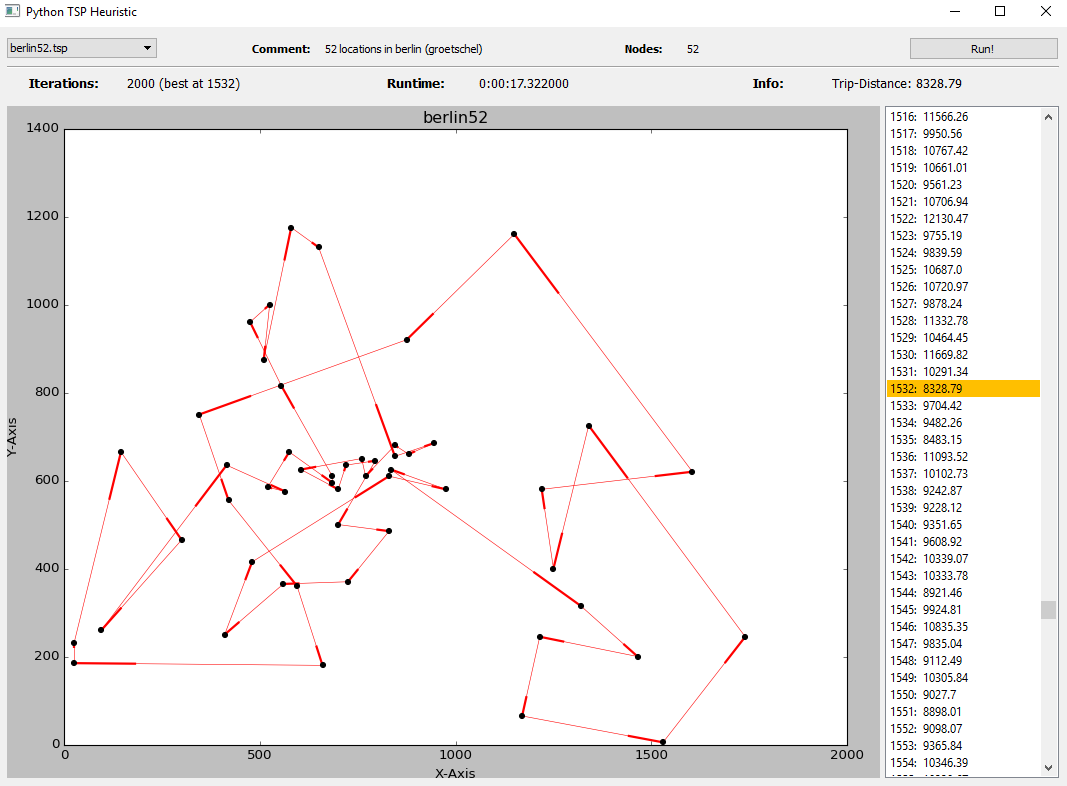
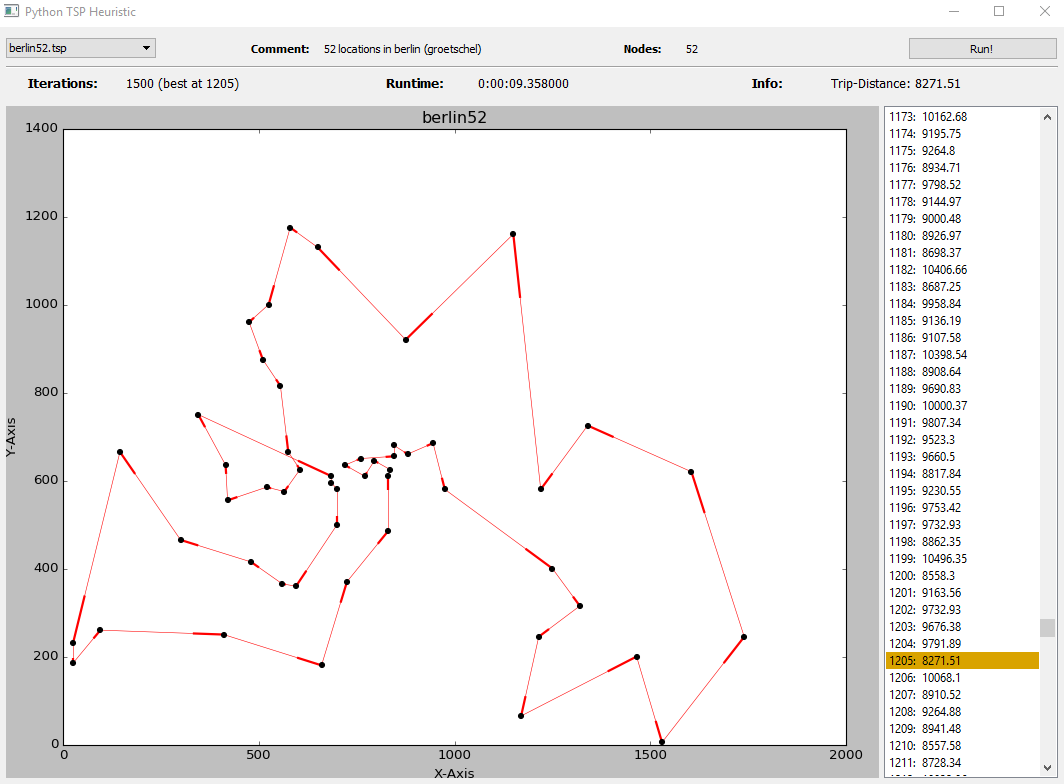
update readme

diff --git a/tsp_heuristic/tsp_worker.py b/tsp_heuristic/tsp_worker.py
@@ -101,7 +101,7 @@ class Problem(QThread):
                               str(self.best_solution['distance']),
                               os.path.basename(self.img)]) + '\n')
 
-    def iterated_local_search(self, iteration_limit=2000, idle_limit=50):
+    def iterated_local_search(self, iteration_limit=1500, idle_limit=50):
         solution = {'trip': [], 'distance': 0, 'iteration': 0}
         #initial solution starting at 0
         solution['trip'].append(0)

diff --git a/README.md b/README.md
@@ -8,8 +8,7 @@
 * Code for GUI-Elements was generated with PyQt4 UI code generator
 * Python 2.7.10
 
-Example of GUI with a greedy tsp.
-
+GUI:
 ![alt tag](https://github.com/fritziF/Python-TSP-Heuristic/blob/master/gui_tsp-ILS.PNG)
 
 # Source of Problems
